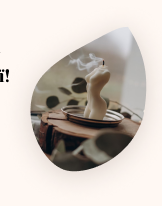
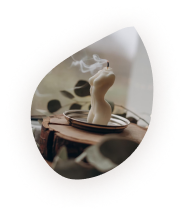
add: added breakpoints for top

Changed region(s): [[0.1543, 0.1165, 0.9259, 0.8447], [0.0, 0.3204, 0.0617, 0.4078]]

diff --git a/css/style.css b/css/style.css
@@ -16,7 +16,7 @@ body{
     font-size: 14px;
     font-style: normal;
     font-weight: 400;
-    text-transform: uppercase;
+    
     
 }
 
@@ -27,6 +27,7 @@ a{
 
 .main{  
     background-color: #FFF8F3;
+    overflow-x: clip;
 }
 
 ul{
@@ -189,9 +190,56 @@ button{
 
 
 
+
+
+
+
+
+
+
+
+
+
+
+
+
+
+
+
+
+
+
+
+
+
+
+
+
 @media(max-width: 1000px){
     .container{
         padding: 0 20px;
+    }
+
+    .top__content{
+        width: 333px;
+    }
+
+    .top__img-l{
+        width: 655px;
+    }
+
+    .top__content{
+        width: 333px;
+        padding: 95px 0 70px;
+       
+    }
+
+    .top__img{
+        left: 300px;
+    }
+
+    .top__text{
+        margin-bottom: 30px;
     }
 
 
@@ -234,6 +282,27 @@ button{
         left: -16px;
         top: -2px;
         background-size: cover;
+    }
+
+
+    .top__content{
+        width: 230px;
+    }
+    .top__title{
+        font-size: 20px;
+        margin-bottom: 20px;
+    }
+    .top__text{
+        font-size: 10px;
+        margin-bottom: 20px;
+    }
+
+    .top__img{
+        left: 300px;
+    }
+
+    .top__img{
+        left: 180px;
     }
 }
 
@@ -291,4 +360,59 @@ button{
         padding: 50px 0;
         font-size: 14px;
     }
+}
+
+@media(max-width: 480px){
+    .top__img-l{
+        width: 309px;
+    }
+
+    .top__content{
+        width: 180px;
+    }
+
+    .top__title{
+        font-size: 15px;
+        margin-bottom: 15px;
+    }
+
+    .top__text{
+        font-size: 8px;
+        margin-bottom: 15px;
+    }
+
+    .top__buy{
+        font-size: 10px;
+        padding: 14px  41px;
+    }
+
+    .top{
+        padding: 30px 0 50px;
+    }
+}
+
+@media(max-width: 360px){
+    .top__img-l{
+        width: 185px;
+
+    }
+
+    .top__img{
+                left: auto;
+        right: 0;
+    }
+    
+    .top__content{
+        width: 200px;
+        padding: 20px 0 0;
+    }
+    
+    .top__title{
+        font-size: 18px;
+    }
+
+    .top__text{
+        font-size: 10px;
+    }
+
 }

diff --git a/index.html b/index.html
@@ -63,7 +63,9 @@
           <button class="top__buy">Купити</button>
         </div>
        <picture class="top__img">
-        <img src="images/top-l.png" alt="">
+        <source  srcset="images/top-s.png" media="(max-width: 360px)">
+        <source  srcset="images/top-m.png" media="(max-width: 480px)">
+        <img class="top__img-l" src="images/top-l.png" alt="">
        </picture>
       </div>
     </section>
